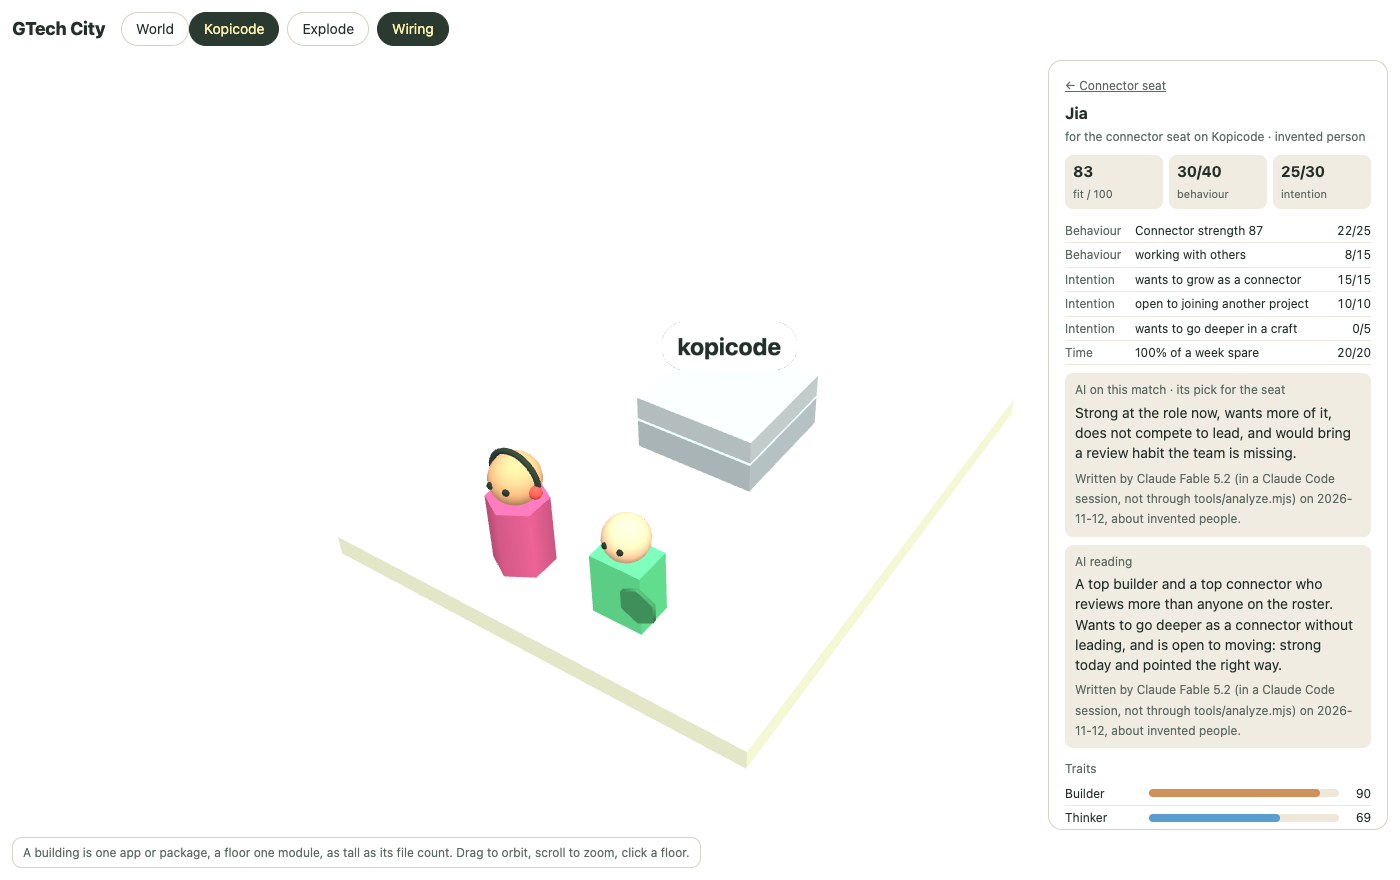
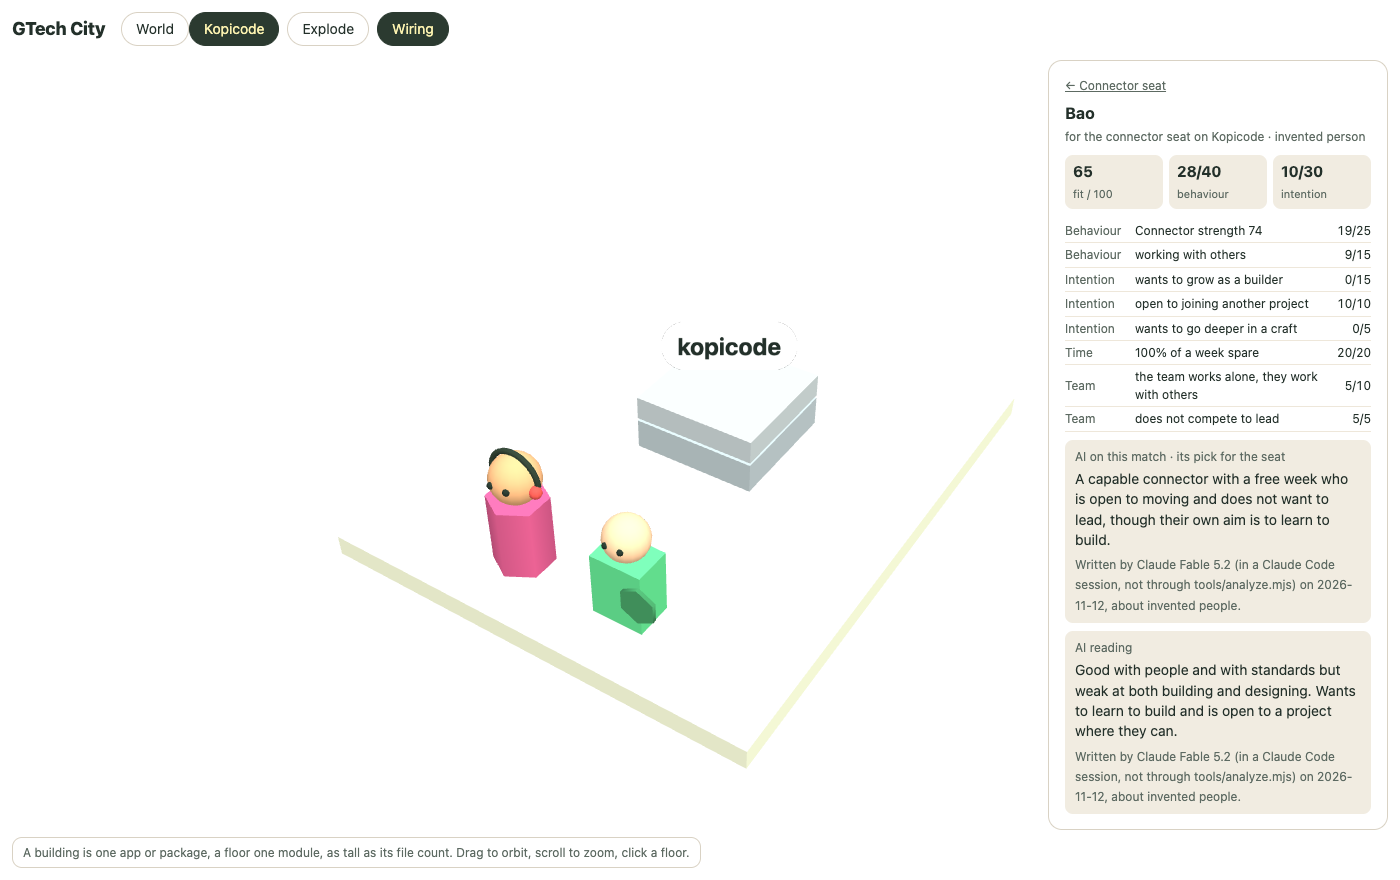
docs: the model's picks, the README and the screenshots follow the new teams and the team-fit score

diff --git a/site/analysis.js b/site/analysis.js
@@ -48,27 +48,27 @@ window.GTECH_ANALYSIS = {
  },
  "seats": {
   "kopicode/connector": {
-   "pick": "p34",
-   "why": "Chosen over the rule's first choice, Qistina. Jia is already a strong connector and wants to go deeper in it, where Qistina wants the role but scores only 53 at it. The rule also cannot see that Elina and Chitra both want to lead: Qistina would make three would-be leads on a three-person team, and Jia does not want to lead at all. Jia reviews more than anyone, which this team lacks.",
-   "risk": "Jia is as strong a builder as a connector, and Elina and Chitra both work alone. Watch that Jia is not drawn into building beside them while the job the seat exists for, getting the project into the catalogue and known to other teams, goes undone.",
+   "pick": "p25",
+   "why": "Chosen over the rule's first choice, Qistina, who is a middling connector and would be a third person on this team who wants to lead. The two strongest connectors on the list are not really available: Tan has said they want to stay where they are, and Jia is already on two projects with a fifth of a week left. Bao is a capable connector, has the whole week free, is open to moving and does not compete with Elina and Chitra to lead.",
+   "risk": "Bao wants to grow as a builder, not as a connector, and Elina and Chitra are both stretched across two projects and work alone. Watch that Bao does not spend the month learning to build while the job the seat exists for, getting the project into the catalogue and known to other teams, goes undone. If Jia can be released from Relay, Jia is the better fit: already works with Chitra on SubmitHub.",
    "candidates": {
-    "p13": "Would bring the most collaborative working style on the roster to a team of two people who work alone, but is a middling connector today and would be a third person who wants to lead.",
-    "p34": "Strong at the role now, wants more of it, does not compete to lead, and would bring a review habit the team is missing.",
-    "p36": "Wants the role and wants to lead, but prefers to work alone, so the team would gain a third solitary worker and another would-be lead.",
-    "p31": "Willing and sociable, but one of the weaker connectors on the roster: this would be a training placement, not a fix.",
-    "p18": "Reviews a lot, which would help, but works alone and has thin design and quality strength to bring to the conversations a connector has."
+    "p13": "Works with others more than anyone and has time, but is a middling connector today and would be the third person here who wants to lead.",
+    "p3": "The strongest connector on the list and free all week, but wants to stay where they are and to grow as a designer: placing them here goes against what they have said they want.",
+    "p34": "The best fit on skill and intention, and already works with Chitra on SubmitHub, but is on two projects with a fifth of a week spare. Only an option if one of those is given up.",
+    "p25": "A capable connector with a free week who is open to moving and does not want to lead, though their own aim is to learn to build.",
+    "p28": "Wants the role and has some time, but is a weak connector today and never reviews: a learner for a team with no spare time to teach."
    }
   },
   "kopicode/guardian": {
    "pick": "p38",
-   "why": "The rule's first choice too, though for a reason the rule cannot give. This team is not short of quality skill: Chitra is the strongest guardian on the roster and Elina is strong too. What it lacks is the habit, since both work alone and review little, and that is how a project ends up with no tests. Xin is the only one of the five who reviews often and works with others, so Xin changes how the team works, where the other four would add a third person with the same habits.",
-   "risk": "Reviewing takes two. Xin and Chitra both work in bursts and Chitra works almost entirely alone, so watch in the first month whether reviews and tests are really happening or whether Xin is checking work nobody else looks at.",
+   "why": "The rule ranks Xin third because Xin has only a fifth of a week spare; Xin is still the right person. This team is not short of quality skill: Chitra is the strongest guardian on the roster and Elina is strong too. What it lacks is the habit, since both work alone and review little, and that is how a project ends up with no tests. Xin is the only one of the five with real guardian strength who also reviews often. Omar and Ehsan, whom the rule puts first, have the time but the same habits as the team.",
+   "risk": "Time. Xin is on SensorHub and gatelib already, so this pick only works if one of those is handed over; on a fifth of a week nothing here will change. If that cannot be arranged, take Omar, who has the time and links people well, and make reviewing an explicit part of the job from the first week.",
    "candidates": {
-    "p38": "Strong on quality, reviews often and works with others: the one candidate who brings the missing habit as well as the skill.",
-    "p17": "Nearly as strong and a good link between people, but reviews seldom, so the team's pattern would not change.",
-    "p24": "A top builder with real quality strength who works alone and reviews little: more of what the team already has.",
-    "p35": "Capable and willing, but rarely reviews, and a weaker guardian than either person already on the team.",
-    "p30": "Wants to grow into the role and works well with others, but would be learning quality work from a team that is not practising it."
+    "p17": "Strong, has time and is a good link between people, but reviews seldom, so the team's pattern would not change without being asked to.",
+    "p24": "A top builder with real quality strength and time to give, who works alone and reviews little: a third person with the habits the team already has.",
+    "p38": "The one candidate who brings the missing habit as well as the skill, and the one with the least time: on two projects already.",
+    "p35": "Capable and willing, and already works with Chitra on SubmitHub, but rarely reviews and is a weaker guardian than either person on the team.",
+    "p25": "Free all week and reviews more than most here, but quality is not what they want to grow in, and they are the weakest guardian of the five."
    }
   }
  }

diff --git a/README.md b/README.md
@@ -27,22 +27,24 @@ Agents that work between projects (business development first, then DevOps) are 
 
 ## Who should join a project
 
-Each person has a **behaviour** (how they work: their pace, whether they work alone or with others, how often they review) and an **intention** (what they want: the trait they want to grow, to lead or to go deeper in a craft, the business area they are drawn to, whether they are open to moving). A project that is short of someone shows an open seat, and a seat lists who could take it.
+Each person has a **behaviour** (how they work: their pace, whether they work alone or with others, how often they review) and an **intention** (what they want: the trait they want to grow, to lead or to go deeper in a craft, the business area they are drawn to, whether they are open to moving). Every project has a team drawn from one company roster of 40, so a person can be on two projects, on one or on none, and has less time to spare the more they are on. A project that is short of someone shows an open seat, and a seat lists who could take it, scored against the seat and against the people already on the team.
 
 ![A seat's shortlist, with the model's pick above the rule's ranking](docs/seat.png)
 
 It works in three layers, each shown on the page with its reasons:
 
 1. **Open seats, by rule.** A project opens a seat when under 10% of its source files are tests (Guardian), when it has had no commit in 90 days (Builder), when it has no owner or is not in the catalogue (Connector), or when nobody on its team has a trait. At most two seats a project.
-2. **A shortlist, by rule.** Everyone not on the team is scored out of 100: behaviour 40 (strength in the seat's trait, and the habit that suits the seat), intention 40 (wants to grow that trait, drawn to the seat's business area, open to moving, lead or specialise), time 20. A candidate's card shows every part of the score. The invented quality figure plays no part.
-3. **A model's reading.** `tools/analyze.mjs` sends the mock people and each seat's top five to Claude and writes `site/analysis.js`: a short reading of each person, a line on each candidate, the model's own pick and the main risk in it. The page shows this beside the rule's ranking and never in place of it. The model can see what the rule cannot, for example that a team already has two people who want to lead.
+2. **A shortlist, by rule.** Everyone not on the team is scored, and the score shown as a share of 100: behaviour 40 (strength in the seat's trait, and the habit that suits the seat), intention 40 (wants to grow that trait, drawn to the seat's business area, open to moving, lead or specialise), time 20 (the share of a week they have left), fit with the team 20 (the seat's habit counts for more where the team lacks it, a way of working counts for more the closer it is to the team's, and one more person who wants to lead is a clash). A candidate's card shows every part of the score. The invented quality figure plays no part.
+3. **A model's reading.** `tools/analyze.mjs` sends the mock people and each seat's top five to Claude and writes `site/analysis.js`: a short reading of each person, a line on each candidate, the model's own pick and the main risk in it. The page shows this beside the rule's ranking and never in place of it. The model can see what the rule cannot, for example that the best-fitting person is already on two projects and would have to be released from one.
 
 ![One candidate against one seat: the score's parts, then what the model said](docs/candidate.png)
 
 What to know before trusting any of it:
 
 - **Every person is invented.** The ranking shows how the match works and says nothing about anyone real. With real people this becomes profiling for staffing decisions, which needs consent, a way to contest a result and HR's agreement before any data goes in.
-- **The weights and the habits are guesses.** That a Builder seat suits working in bursts, or that intention is worth as much as behaviour, is a choice made for the demo with no data behind it.
+- **The weights and the habits are guesses.** That a Builder seat suits working in bursts, that intention is worth as much as behaviour, or that a team is better for someone who works the way it does, is a choice made for the demo with no data behind it.
+- **The rule's view of a team is crude.** It compares a candidate with the team's averages and counts who wants to lead. It knows nothing of how particular people get on.
+- **Only a scanned project can be entered.** The catalogue's other projects have a team, shown on their card, but no seats: the rules that open a seat need a repository to read.
 - **The committed `site/analysis.js` was written by Claude in a coding session**, from the exact input the tool prints with `--dry`, because no API key was to hand. Each box on the page says so. The tool's own call to the API has not been run.
 - **The model only picks among the rule's top five.** It can reorder them; it cannot bring in someone the rule ranked sixth.
 
